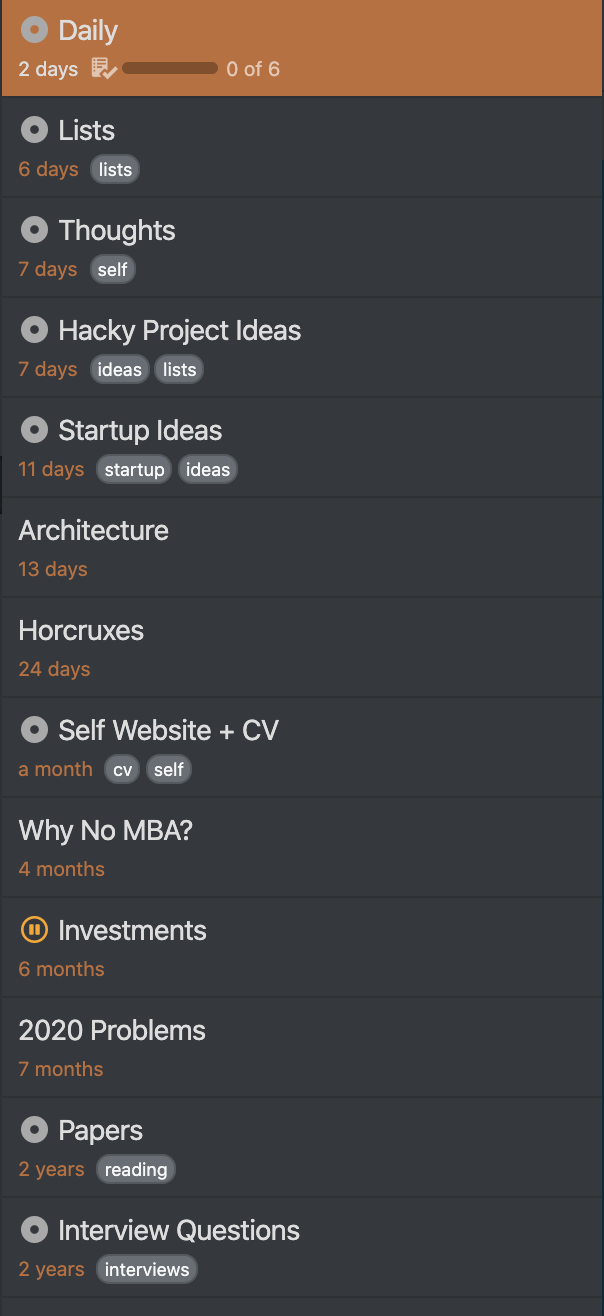
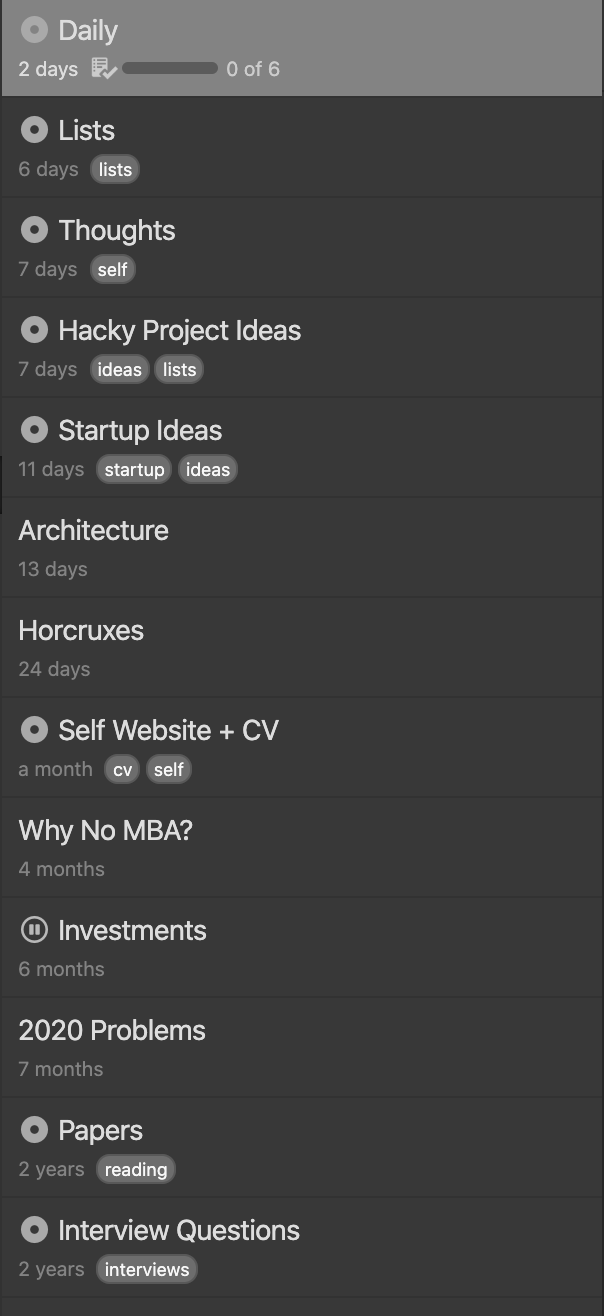
copy design decision from vivek

diff --git a/static/css/custom.css b/static/css/custom.css
@@ -11,3 +11,40 @@
 	visibility: hidden
 }
 
+body {
+	font-family: "JetBrains Mono", monospace;
+	font-size: 1.4rem;
+}
+
+p {
+	font-size: 1.4rem;
+}
+
+.p-article__body {
+	text-align: justify;
+}
+
+.c-article__title a {
+	font-family: "JetBrains Mono", monospace;
+}
+
+.p-subtitle {
+	font-family: "JetBrains Mono", monospace;
+}
+
+h1, h2, h3, h4, h5, h6 {
+	font-family: "JetBrains Mono", monospace;
+}
+
+li {
+	font-size: 1.4rem;
+}
+
+a {
+	color: #555
+}
+
+.c-tag {
+	color: #555;
+	font-weight: bold;
+}

diff --git a/content/posts/note-taking.md b/content/posts/note-taking.md
@@ -82,6 +82,10 @@ But accepting sadness, disappointment and with a heavy heart, I decided to go ah
 
 Sigh.
 
+#### Edit: 24-08-2020
+I wondered if anyone paid attention to the numbers so my first version of calculations (Gave equal weight to all features) is when I wrote this article. But, eventually, I changed the calculation to add weights but did not change the `63%` number. Since, now each article has varying weights the highest score is not `63%` but `77.5%`.
+
+
 
 #### Appendix
 

diff --git a/README.md b/README.md
@@ -8,5 +8,7 @@
 - Design Changes
   - ~~Make title Italics~~
   - Add contents feature
-  - Improve font
-  - Remove all color and convert to bnw
+  - ~~Improve font~~
+  - ~~Remove all color and convert to bnw~~
+- Content
+  - ~~Fix numbers in note taking~~

diff --git a/content/posts/problem-to-solve.md b/content/posts/problem-to-solve.md
@@ -37,3 +37,14 @@ Open to questions, criticism, coffee and wine.
 
 
 
+today.
+
+
+
+
+TO ADD:
+- Distance from the real problem or mission statement
+
+
+
+

diff --git a/content/posts/good-engineer.md b/content/posts/good-engineer.md
@@ -39,8 +39,3 @@ P.S. The above is my opinion and understanding today and is open to change. They
 
 
 
-
-
-
-
-
